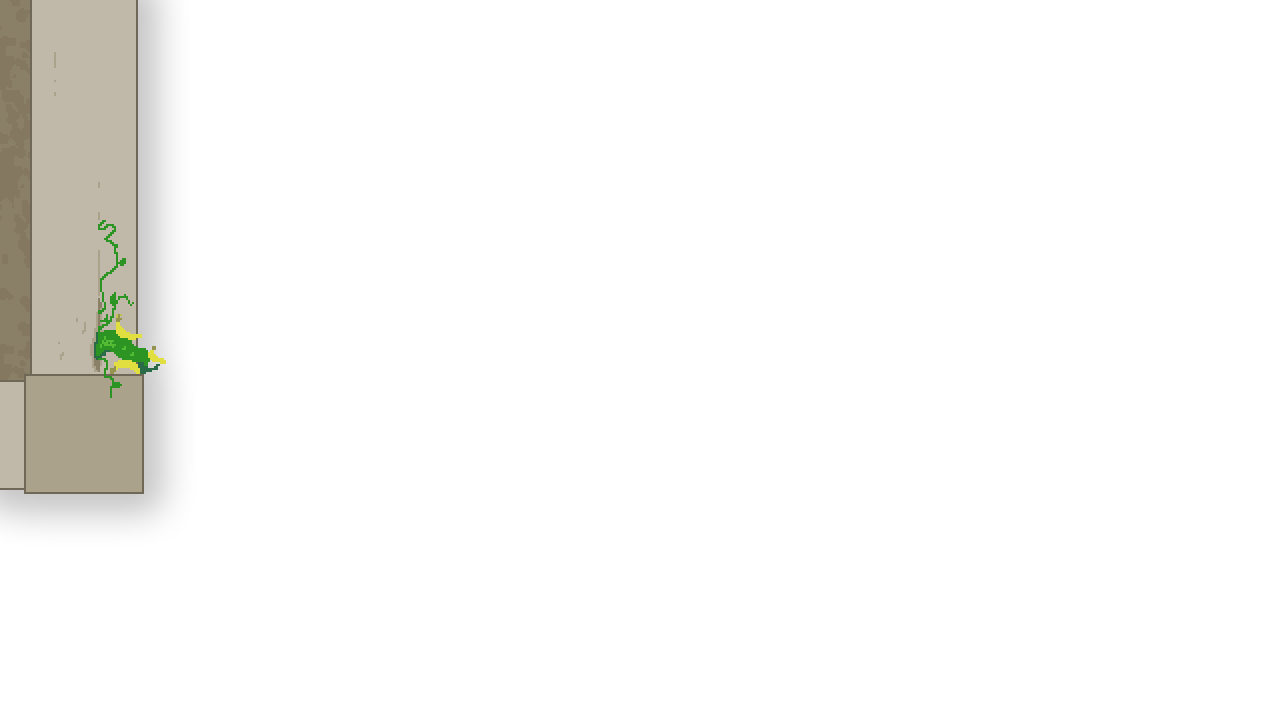
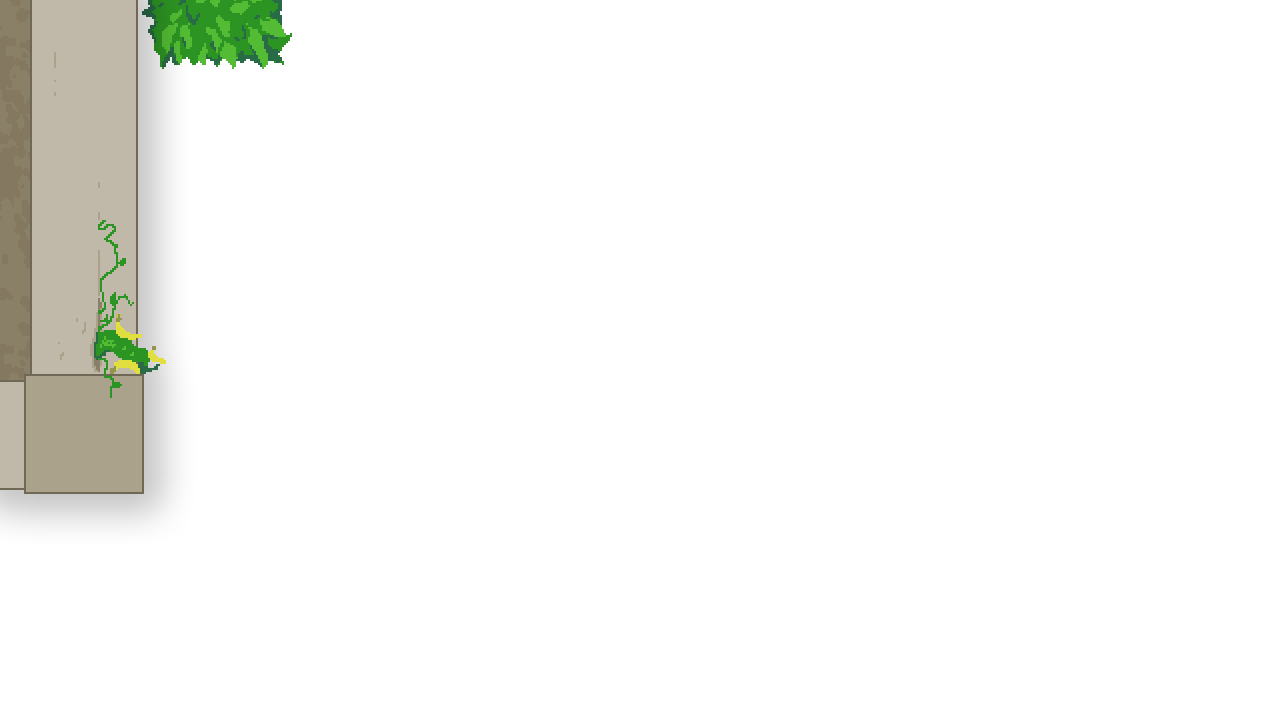
added skill shot ability

Changed region(s): [[0.0938, 0.0, 0.25, 0.0917]]

diff --git a/game/abilities.js b/game/abilities.js
@@ -37,7 +37,8 @@ Dash.prototype.constructor = Dash;
 Dash.prototype.update = function () {
     if (this.iconCD > 0) this.iconCD--;
     if (this.cooldown > 0) this.cooldown--;
-    if (this.game.player.space && this.cooldown <= 0 && this.player.stunCD <= 0) {
+    if (this.game.player.space && this.cooldown <= 0 && this.player.stunCD <= 0
+        && !this.player.lunge && !this.player.fruit && !this.player.laser) {
         if (this.player.attacking) {
             this.player.attacking = false;
             if (this.player.weapon.type == 'knife') {
@@ -91,8 +92,7 @@ SuperDash.prototype.update = function () {
         this.cooldown = this.maxCD;
         this.iconCD = this.maxCD;
     }
-    if (this.game.shift && this.cooldown <= 0
-        && this.player.stunCD <= 0 && !this.player.dash) {
+    if (this.game.shift && this.cooldown <= 0 && this.player.stunCD <= 0 && !this.player.dash) {
         if (this.player.attacking) {
             this.player.attacking = false;
             if (this.player.weapon.type == 'knife') {
@@ -147,8 +147,7 @@ BlingStun.prototype.update = function () {
         this.cooldown = this.maxCD;
         this.iconCD = this.maxCD;
     }
-    if (this.game.shift && this.cooldown <= 0
-        && this.player.stunCD <= 0 && !this.player.dash) {
+    if (this.game.shift && this.cooldown <= 0 && this.player.stunCD <= 0 && !this.player.dash) {
         if (this.player.attacking) {
             this.player.attacking = false;
             if (this.player.weapon.type == 'knife') {
@@ -206,8 +205,7 @@ BoomSpeaker.prototype.update = function () {
         this.cooldown = this.maxCD;
         this.iconCD = this.maxCD;
     }
-    if (this.game.shift && this.cooldown <= 0
-        && this.player.stunCD <= 0 && !this.player.dash) {
+    if (this.game.shift && this.cooldown <= 0 && this.player.stunCD <= 0 && !this.player.dash) {
         if (this.player.attacking) {
             this.player.attacking = false;
             if (this.player.weapon.type == 'knife') {
@@ -276,28 +274,11 @@ Lunge.prototype.constructor = Lunge;
 Lunge.prototype.update = function () {
     if (this.iconCD > 0) this.iconCD--;
     if (this.cooldown > 0) this.cooldown--;
-    if (this.game.player.dash && this.player.lunge) {
-        this.player.boom = false;
-        this.player.anim.boom.elapsedTime = 0;
-        this.cooldown = this.maxCD;
-        this.iconCD = this.maxCD;
-    }
-    if (this.game.shift && this.cooldown <= 0
-        && this.player.stunCD <= 0 && !this.player.dash) {
+    if (this.game.shift && this.cooldown <= 0 && this.player.stunCD <= 0 && !this.player.dash) {
         if (this.player.attacking) {
             this.player.attacking = false;
-            if (this.player.weapon.type == 'knife') {
-                this.player.anim.knifeAtk.elapsedTime = 0;
-                this.player.atkCD = 9;
-            }
-            else if (this.player.weapon.type == 'bat') {
-                this.player.anim.batAtk.elapsedTime = 0;
-                this.player.atkCD = 18;
-            }
-            else if (this.player.weapon.type == 'gun') {
-                this.player.anim.gunAtk.elapsedTime = 0;
-                this.player.atkCD = 30;
-            }
+            this.player.anim.knifeAtk.elapsedTime = 0;
+            this.player.atkCD = 9;
         }
         this.player.lunge = true;
         this.player.hitCD = this.player.anim.lunge.totalTime * 60;
@@ -366,9 +347,59 @@ Lunge.prototype.hit = function (other) {
     else return false;
 }
 
+function Apple(game, x, y, rot, dmg) {
+    this.image = new Animation(ASSET_MANAGER.getAsset('./img/weapons/apple.png'), 0, 0, 22, 24, 1, 1, true, false);
+    this.velocity = {};
+    this.velocity.x = Math.cos(rot) * 99999;
+    this.velocity.y = Math.sin(rot) * 99999;
+    this.maxSpeed = 600;
+    this.damage = dmg;
+    this.rotation = rot;
+    this.radius = 11;
+    Entity.call(this, game, x, y);
+}
+
+Apple.prototype = new Entity();
+Apple.prototype.constructor = Apple;
+
+Apple.prototype.update = function () {
+    if (this.collideTop() || this.collideRight() || this.collideLeft() || this.collideBottom())
+        this.removeFromWorld = true;
+
+    for (var i = 0; i < this.game.entities.length; i++) {
+        var ent = this.game.entities[i];
+        if (this.collide(ent)) {
+            if (ent.enemy) {
+                ent.hurt = true;
+                ent.health -= this.damage;
+                ent.hitCD = 6;
+                this.removeFromWorld = true;
+            }
+            else if (ent.wall || ent.column)
+                this.removeFromWorld = true;
+        }
+    }
+
+    var speed = Math.sqrt(this.velocity.x * this.velocity.x + this.velocity.y * this.velocity.y);
+    if (speed > this.maxSpeed) {
+        var ratio = this.maxSpeed / speed;
+        this.velocity.x *= ratio;
+        this.velocity.y *= ratio;
+    }
+    this.x += this.velocity.x * this.game.clockTick;
+    this.y += this.velocity.y * this.game.clockTick;
+}
+
+Apple.prototype.draw = function (ctx) {
+    this.image.drawFrame(this.game.clockTick, ctx, this.x, this.y, this.rotation + Math.PI / 2);
+}
+
 function FruitShot(game, player) {
     this.icon = ASSET_MANAGER.getAsset('./img/entities/dash.png');
-    this.maxCD = 360;
+    this.maxCD = 30;
+    this.hit = false;
+    this.mouse = {};
+    this.spawnDist = Math.sqrt(Math.pow(127, 2) + Math.pow(26, 2));
     Ability.call(this, game, player, 150, 35);
 }
 
@@ -376,7 +407,40 @@ FruitShot.prototype = new Ability();
 FruitShot.prototype.constructor = FruitShot;
 
 FruitShot.prototype.update = function () {
-
+    if (this.iconCD > 0) this.iconCD--;
+    if (this.cooldown > 0) this.cooldown--;
+    if (this.game.shift && this.cooldown <= 0 && this.player.stunCD <= 0 && !this.player.dash) {
+        if (this.player.attacking) {
+            this.player.attacking = false;
+            this.player.anim.batAtk.elapsedTime = 0;
+            this.player.atkCD = 18;
+        }
+        this.player.fruit = true;
+        this.mouse.x = this.game.mouse.x;
+        this.mouse.y = this.game.mouse.y;
+        this.player.storedRot = this.player.rotation;
+        this.cooldown = this.maxCD;
+        this.iconCD = this.maxCD * 2;
+    }
+    if (this.player.fruit) {
+        if (this.player.anim.fruit.elapsedTime > (this.player.anim.fruit.totalTime * 4 / 7) && !this.hit) {
+            this.hit = true;
+            var appleRot = this.player.rotation + Math.atan(127 / 26);
+            var difX = Math.cos(appleRot) * 125;
+            var difY = Math.sin(appleRot) * 125;
+            var spawnX = this.player.x + difX;
+            var spawnY = this.player.y + difY;
+            var spawnRot = Math.atan2(this.mouse.y - spawnY, this.mouse.x - spawnX);
+            this.game.addEntity(new Apple(this.game, spawnX, spawnY, spawnRot, this.player.damage * 3));
+        }
+        if (this.player.anim.fruit.isDone()) {
+            this.player.anim.fruit.elapsedTime = 0;
+            this.player.fruit = false;
+            this.hit = false;
+            this.cooldown = this.maxCD;
+            this.iconCD = this.maxCD;
+        }
+    }
 }
 
 function Laser(game, player) {

diff --git a/game/player.js b/game/player.js
@@ -160,7 +160,7 @@ function Bullet(game, x, y, rot, dmg) {
     this.velocity = {};
     this.velocity.x = Math.cos(rot) * 99999;
     this.velocity.y = Math.sin(rot) * 99999;
-    this.maxSpeed = 600;
+    this.maxSpeed = 1000;
     this.damage = dmg;
     this.radius = 4;
 
@@ -229,6 +229,7 @@ function Frump(game) {
     this.anim.bling = new Animation(ASSET_MANAGER.getAsset('./img/entities/frump2.png'), 0, 900, 300, 300, 0.15, 4, false, false);
     this.anim.boom = new Animation(ASSET_MANAGER.getAsset('./img/entities/frump2.png'), 300, 1900, 300, 300, 0.15, 4, false, false);
     this.anim.lunge = new Animation(ASSET_MANAGER.getAsset('./img/entities/frump2.png'), 0, 1500, 300, 400, 0.075, 4, false, false);
+    this.anim.fruit = new Animation(ASSET_MANAGER.getAsset('./img/entities/frump2.png'), 0, 600, 300, 300, 0.12, 7, false, false);
 
     // Properties
     this.player = true;
@@ -276,10 +277,15 @@ Frump.prototype.update = function () {
             if (this.hitCD > 0) this.hitCD--;
 
             // Movement control
-            if (this.dashing || this.supDash || this.lunge) {
+            if (this.dashing || this.supDash || this.lunge || this.fruit) {
                 this.velocity.x += Math.cos(this.storedRot) * this.acceleration;
                 this.velocity.y += Math.sin(this.storedRot) * this.acceleration;
                 if (this.lunge) this.rotation = this.storedRot;
+                else if (this.fruit) {
+                    this.rotation = this.storedRot;
+                    this.velocity.x = 0;
+                    this.velocity.y = 0;
+                }
             }
             else if (!this.bling && !this.boom) {
                 if (this.game.player.up) this.velocity.y -= this.acceleration;
@@ -411,6 +417,7 @@ Frump.prototype.draw = function (ctx) {
     else if (this.bling) this.anim.bling.drawFrame(this.game.clockTick, ctx, this.x, this.y, this.rotation + Math.PI / 2);
     else if (this.boom) this.anim.boom.drawFrame(this.game.clockTick, ctx, this.x, this.y, this.rotation + Math.PI / 2);
     else if (this.lunge) this.anim.lunge.drawFrame(this.game.clockTick, ctx, this.x, this.y, this.rotation + Math.PI / 2);
+    else if (this.fruit) this.anim.fruit.drawFrame(this.game.clockTick, ctx, this.x, this.y, this.rotation + Math.PI / 2);
     else if (this.attacking) {
         if (this.weapon.type == 'knife') this.anim.knifeAtk.drawFrame(this.game.clockTick, ctx, this.x, this.y, this.rotation + Math.PI / 2);
         else if (this.weapon.type == 'bat') this.anim.batAtk.drawFrame(this.game.clockTick, ctx, this.x, this.y, this.rotation + Math.PI / 2);

diff --git a/game/levels.js b/game/levels.js
@@ -165,7 +165,7 @@ SceneManager.prototype.buildLevelOne = function (game) {
             new Knife(game, 1), new Door(game, 0, 376, 10, 112), 'street');
     } else {
         this.levels[0].streets[5] = new Background(game, ('./img/backgrounds/street00.png'),
-            new Knife(game, 0), new Door(game, 0, 376, 10, 112), 'street');
+            new Knife(game, 0, this.player, 3), new Door(game, 0, 376, 10, 112), 'street');
     }
 
     // creating houses
@@ -200,7 +200,7 @@ SceneManager.prototype.buildLevelOne = function (game) {
     this.levels[0].houses[4] = new Background(game, ('./img/backgrounds/house05.png'),
         new Gun(game, Math.floor(Math.random() * 2)), new Door(game, 577, 710, 116, 10), 'house');
     this.levels[0].houses[5] = new Background(game, ('./img/backgrounds/house00.png'),
-        new Knife(game, 0, this.player, 3), new Door(game, 1270, 176, 10, 96), 'house');
+        new Bat(game, 0, this.player, 3), new Door(game, 1270, 176, 10, 96), 'house');
 
     // house00 - Lil' Frump's House
     this.levels[0].houses[5].walls.push(new Wall(game, 0, 0, 210, 720));

diff --git a/main.js b/main.js
@@ -167,6 +167,8 @@ ASSET_MANAGER.queueDownload('./img/weapons/gun20.png');
 ASSET_MANAGER.queueDownload('./img/weapons/gun30.png');
 ASSET_MANAGER.queueDownload('./img/weapons/bullet.png');
 ASSET_MANAGER.queueDownload('./img/weapons/bullet_alt.png');
+ASSET_MANAGER.queueDownload('./img/weapons/laser.png');
+ASSET_MANAGER.queueDownload('./img/weapons/apple.png');
 
 ASSET_MANAGER.queueDownload('./img/Mailbox.png');
 
